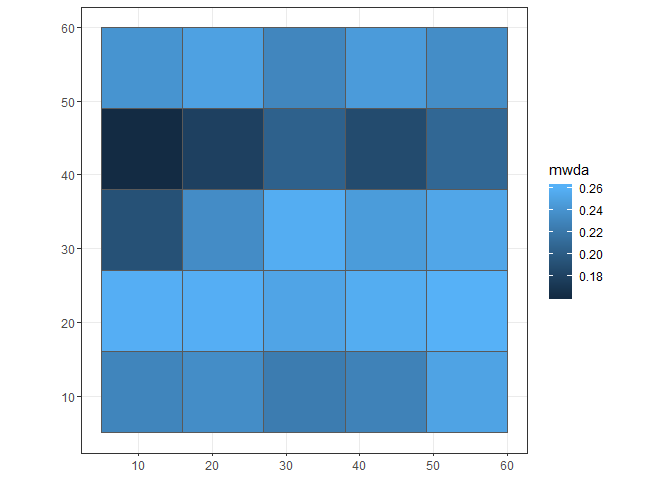
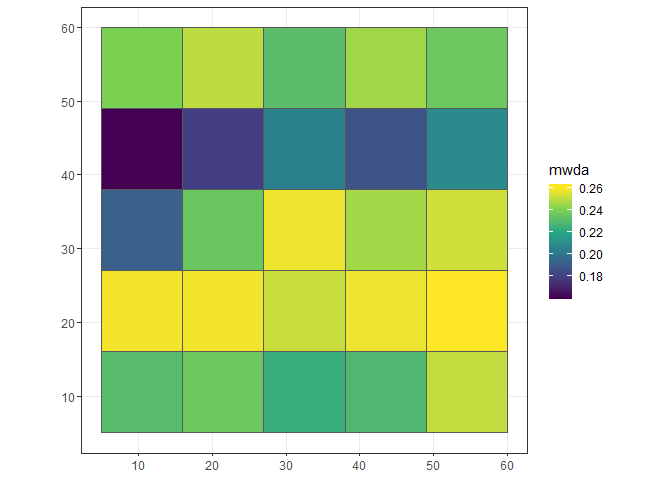
update example figure to match colour scheme

diff --git a/README.md b/README.md
@@ -94,6 +94,7 @@ g_sf$mwda <- winmove_agg(coarse_dat = g_sf,
 
 ggplot(g_sf) + 
   geom_sf(aes(fill = mwda)) + 
+  scale_fill_viridis_c() +
   theme_bw()
 ```
 
